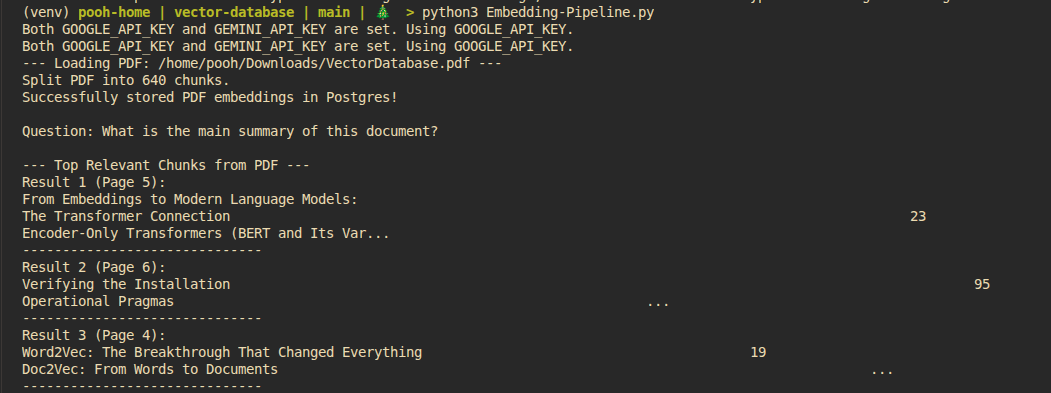
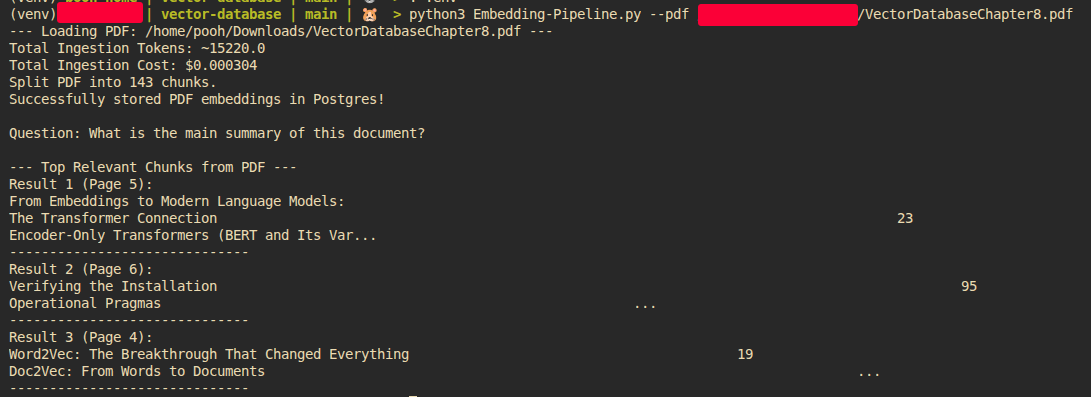
update README

diff --git a/vector-database/Embedding-Pipeline.py b/vector-database/Embedding-Pipeline.py
@@ -32,8 +32,6 @@ embeddings = GoogleGenerativeAIEmbeddings(
     output_dimensionality=768
 )
 
-llm = ChatGoogleGenerativeAI(model="gemini-2.5-flash", temperature=0)
-
 def calculate_ingestion_cost(documents):
     total_chars = sum(len(doc.page_content) for doc in documents)
     # Approximation: 1 token = 4 characters
@@ -95,42 +93,9 @@ def ask_question(vector_store, query):
         print(f"{doc.page_content[:200]}...") # Print first 200 chars
         print("-" * 30)
 
-def ask_agent(query):
-    vector_store = get_vector()
-    # Create a retriever from the existing vector store
-    retriever = vector_store.as_retriever(search_kwargs={"k": 5})
-
-    # Define the Prompt Template
-    template = """
-    You are a helpful assistant. Use the following pieces of retrieved context 
-    from a PDF document to answer the question. 
-    If you don't know the answer based on the context, just say you don't know.
-    
-    Context:
-    {context}
-    
-    Question: {question}
-    
-    Answer:
-    """
-    prompt = ChatPromptTemplate.from_template(template)
-
-    # Build the RAG Chain
-    # This automatically: 1. Retrieves docs, 2. Formats them, 3. Sends to LLM
-    rag_chain = (
-        {"context": retriever, "question": RunnablePassthrough()}
-        | prompt
-        | llm
-        | StrOutputParser()
-    )
-
-    print(f"\n--- AI Agent is thinking ---")
-    response = rag_chain.invoke(query)
-    return response
-
 if __name__ == "__main__":
     parser = argparse.ArgumentParser(description="The PDF Embedding-Pipeline")
-    parser.add_argument("pdf", type=str, help="Path to a PDF file.")
+    parser.add_argument("--pdf", type=str, help="Path to a PDF file.")
 
     args = parser.parse_args()
     pdf_path = args.pdf

diff --git a/vector-database/README.md b/vector-database/README.md
@@ -1,117 +1,147 @@
 # Vector Database as Source Knowledge for LLMs
 
-This repository provides an example of how to leverage a vector database as a source of knowledge for Large Language Models (LLMs).
+A practical guide to leveraging vector databases as external knowledge sources for LLMs. This project showcases semantic search and information retrieval through PDF document analysis and newspaper article summarization.  
 
-## Table of Contents
-
-- [Vector Database as Source Knowledge for LLMs](#vector-database-as-source-knowledge-for-llms)
-  - [Table of Contents](#table-of-contents)
-  - [0. System Architecture Diagram](#0-system-architecture-diagram)
-  - [1. Embedding a PDF](#1-embedding-a-pdf)
-  - [2. Query from Vector Database](#2-query-from-vector-database)
-  - [3. Look inside database](#3-look-inside-database)
-  - [4. More example and issues](#4-more-example-and-issues)
-    - [4.1 "Lost in the Middle" Phenomenon](#41-lost-in-the-middle-phenomenon)
-
-## 0. System Architecture Diagram
-
+### 🍀 Use Cases
+*   **Technical Revision:** Query complex textbooks to clarify concepts and retrieve specific technical definitions.
+*   **Media Analysis:** Summarize lengthy newspaper articles to extract key insights quickly.
+  
 ![alt text](images/00.png)
 
-## 1. Embedding a PDF
+🌈 Highly recommended reading: [Vector Databases](https://www.oreilly.com/library/view/vector-databases/9781098177584/)
+## 🍀 Table of Contents
 
-This section demonstrates the process of embedding a PDF document into the vector database. The visual below illustrates the workflow:
+- [Vector Database as Source Knowledge for LLMs](#vector-database-as-source-knowledge-for-llms)
+    - [🍀 Use Cases](#-use-cases)
+  - [🍀 Table of Contents](#-table-of-contents)
+  - [1. Embedding pipeline](#1-embedding-pipeline)
+    - [1.1 Embedding](#11-embedding)
+    - [1.2 Look inside the database](#12-look-inside-the-database)
+  - [2. Query from Vector Database](#2-query-from-vector-database)
+  - [3. Issues](#3-issues)
+    - [3.1 "Lost in the Middle" Phenomenon](#31-lost-in-the-middle-phenomenon)
 
-![Embedding a PDF](images/01.png)
+## 1. Embedding pipeline
+### 1.1 Embedding
+This section demonstrates the process of embedding a PDF document into the vector database. The visual below illustrates the workflow:  
+    ![alt text](images/05.png)
+
+- output example:  
+
+    ![Embedding a PDF](images/01.png)
+
+### 1.2 Look inside the database
+
+This section describes how the data is stored within the PostgreSQL database using `PGVector`.
+
+- A collection with the name `COLLECTION_NAME` is created on the `langchain_pg_collection` table, as shown below:
+
+    ```python
+        vector_store = PGVector(
+            embeddings=embeddings,
+            collection_name=COLLECTION_NAME,
+            connection=CONNECTION_STRING,
+            use_jsonb=True,
+        )
+    ```
+
+    ![Collection Table](images/04.png)
+
+- Rows are added to the `langchain_pg_embedding` table, where the `embedding` column is of type `vector`. These embeddings are the output of `vector_store.add_documents(chunks)`:
+
+    ![Embedding Table](images/03.png)
 
 ## 2. Query from Vector Database
+A RAG agent first retrieves relevant data from a vector database and then forwards it to the LLM to generate a response.  
+- ![RAg agent](images/06.png)
 
-Once the PDF is embedded, this section shows how to query the vector database to retrieve relevant information. The following image outlines the querying process:
+- example:
+    ![Querying the Vector Database](images/02.png)
 
-![Querying the Vector Database](images/02.png)
+- 🌈 compare similarity_search and as_retriever
+  - similarity_search
+    ```
+            [ USER QUERY ] (String: "How do I...")
+                |
+                | 1. Invoke .similarity_search(query, k=5)
+                v
+        +------------------------------------------+
+        |        LangChain / PGVector Class        |
+        +------------------------------------------+
+                |
+                | 2. Call Embeddings Model
+                v
+        +------------------------------------------+
+        |   gemini-embedding-2 (Google API)        |
+        +------------------------------------------+
+                |
+                | 3. Return Query Vector
+                |    [0.012, -0.453, 0.891, ...]
+                v
+        +------------------------------------------+
+        |        PGVector (SQL Generator)          |
+        +------------------------------------------+
+                |
+                | 4. Execute SQL Query:
+                |    SELECT text, metadata, 
+                |    embedding <=> '[vector]' as distance
+                |    FROM langchain_pg_embedding
+                |    ORDER BY distance ASC LIMIT 5;
+                v
+        +------------------------------------------+
+        |       PostgreSQL (pgvector)              |
+        +------------------------------------------+
+                |
+                | 5. Compute Vector Distance 
+                |    (using HNSW Index if present)
+                v
+        +------------------------------------------+
+        |          DB RESULT SET (Rows)            |
+        +------------------------------------------+
+                |
+                | 6. Reconstruct into List[Document]
+                v
+        [ LIST OF CHUNKS ] (Top 5 most relevant)
+    ```
+  - as_retriever
 
-## 3. Look inside database
-
-This section describes how the data is stored within the PostgreSQL database using `PGVector`. A collection with the name `COLLECTION_NAME` is created on the `langchain_pg_collection` table, as shown below:
-
-```python
-    vector_store = PGVector(
-        embeddings=embeddings,
-        collection_name=COLLECTION_NAME,
-        connection=CONNECTION_STRING,
-        use_jsonb=True,
-    )
-```
-
-![Collection Table](images/04.png)
-
-Rows are added to the `langchain_pg_embedding` table, where the `embedding` column is of type `vector`. These embeddings are the output of `vector_store.add_documents(chunks)`:
-
-![Embedding Table](images/03.png)
-
-## 4. More example and issues
-```bash
-python3 Embedding-Pipeline.py
-Both GOOGLE_API_KEY and GEMINI_API_KEY are set. Using GOOGLE_API_KEY.
-Both GOOGLE_API_KEY and GEMINI_API_KEY are set. Using GOOGLE_API_KEY.
---- Loading PDF: /home/pooh/Downloads/84.pdf ---
-Total Ingestion Tokens: ~2898.25
-Total Ingestion Cost: $0.000058
-Split PDF into 13 chunks.
-Successfully stored PDF embeddings in Postgres!
-
-Question: What is the main summary of this document?
-
---- Top Relevant Chunks from PDF ---
-Result 1 (Page 2):
-ROYAL OAK CONCEPT
-C
-ALIBRE 4407 Ø 43mm
-C002...
-------------------------------
-Result 2 (Page 0):
-The Mythosmoment
-Can ﬁve men be trusted with AI?
-The food shock from Iran
-Who votes for Reform UK?
-Venezuela after Maduro
-J.D. V ance, righteous hypocrite
-APRIL 18TH–24TH 2026
-C002...
-------------------------------
-Result 3 (Page 7):
-up from $3.17 a year ago. 
-Oil trading stayed volatile,
-with Brent crude fetching
-between $95 and $100 a barrel.
-The International Energy
-Agency said the Iran conﬂict
-had caused the “most severe
-oil-s...
-------------------------------
-
-python3 chat.py 
-Both GOOGLE_API_KEY and GEMINI_API_KEY are set. Using GOOGLE_API_KEY.
-Both GOOGLE_API_KEY and GEMINI_API_KEY are set. Using GOOGLE_API_KEY.
-What would you like to know from the PDF? tell me about "Artificial intelligence Examining the Mythos"
-
---- AI Agent is thinking ---
-
---- Final Answer ---
-"Artificial intelligence Examining the Mythos" refers to a new AI model developed by Anthropic, an American artificial-intelligence lab.
-
-Here's what the context says about it:
-*   Anthropic announced on April 7th that Mythos would **not be released to the general public**.
-*   This decision created both excitement and worry.
-*   Access to Mythos will be **strictly controlled** under an initiative called **Project Glasswing**, whose 12 founder members include Apple, Google, and Nvidia.
-*   The reason for this control is that Mythos is allegedly **exceptionally effective**, so much so that releasing it would **put the world’s digital infrastructure at risk**.
-*   Anthropic claims Mythos has **surpassed "all but the most skilled humans"** in finding and exploiting security holes in various digital systems, from operating systems to cryptocurrency.
-*   The topic is also framed with the question, "Can five men be trusted with AI?" highlighting concerns about its control.
-```
-
-### 4.1 "Lost in the Middle" Phenomenon
-a Retrieval Gap
-The Cause: Your similarity_search is likely returning the "Chapter 3" header chunk because it's a perfect keyword match, but it isn't returning the next 10 chunks that actually contain the data.
-
+    ```
+        1. INITIALIZATION PHASE (Setup)
+        -------------------------------
+        [ vector_store ] 
+            |
+            | .as_retriever(search_kwargs={"k": 5})
+            v
+        +---------------------------------------+
+        |       VectorStoreRetriever            |  <-- A "Runnable" Object
+        |---------------------------------------|  
+        | Config:                               |
+        | - search_type: "similarity"           |  (Stored for later)
+        | - search_kwargs: {"k": 5}             |
+        +---------------------------------------+
+            |
+            |
+        2. EXECUTION PHASE (When used in a Chain)
+        -----------------------------------------
+            | (Input: User Query String)
+            v
+        +-------------------------+
+        |   retriever.invoke()    |
+        +-------------------------+
+            |
+            | A. Auto-calls internally:
+            |    vector_store.similarity_search(query, k=5)
+            |
+            | B. Internal Logic (Same as previous chart):
+            |    - Embed Query
+            |    - SQL Search
+            |    - Return Documents
+            v
+        [ LIST OF DOCUMENTS ]
+    ```
+## 3. Issues
+### 3.1 "Lost in the Middle" Phenomenon
+**A Retrieval Gap**  
 - **Symtom**  
     ```bash
     python3 chat.py 
@@ -135,7 +165,8 @@ The Cause: Your similarity_search is likely returning the "Chapter 3" header chu
     *   Role in Modern LLM Applications
     *   Practical Applications and Use Cases
     ```
-
+- **The Cause:** Your similarity_search is likely returning the "Chapter 3" header chunk because it's a perfect keyword match, but it isn't returning the next 10 chunks that actually contain the data.  
+  
 - **The Fix:**
   - Increase your K-value (the number of retrieved chunks).  
 

diff --git a/README.md b/README.md
@@ -1,24 +1,27 @@
 # NekoAI-agent:  
 
-*This repository documents my journey of practicing AI Agents*
+≽^⎚⩊⎚^≼ Documenting my journey into the world of AI Agents.  𓆝 𓆟 𓆞 𓆝 𓆟
 
-## 🍀 Topics:
-[1. MCP](mcp/README.md):  
+## 🍀 Cover topics:
+[1. Introduction how to use MCP - Your hands and foots](mcp/README.md) 
 - MCP playwright  
 - OpenAI client lib  
 - Gemini API lib  
 - Python asyncio  
 
-[2. Telegram Bot](telegram-bot/README.md)  
+[2. Money lover Telegram Bot - Your face](telegram-bot/README.md)  
 - Money Lover MCP
 - Telegram Bot
 - Gemini API lib
 - Python asyncio
 
-[3. Vector database](vector-database/README.md)  
+[3. Start using Vector database - Your long-term memory](vector-database/README.md)  
 - vector database
 - langchain package
 - Postgres pgvector
-    - [PGVector](https://reference.langchain.com/python/langchain-postgres/vectorstores/PGVector): add_documents, as_retriever
+    - [PGVector](https://reference.langchain.com/python/langchain-postgres/vectorstores/PGVector): add_documents, similarity_search, as_retriever
+![alt text](images/00.png)
 
-## 🐾 References:  
+## 🐾 Books and References:  
+[1. Vector Databases](https://www.oreilly.com/library/view/vector-databases/9781098177584/)  
+[2. Embeddings model](https://ai.google.dev/gemini-api/docs/embeddings#task-types-embeddings-2)